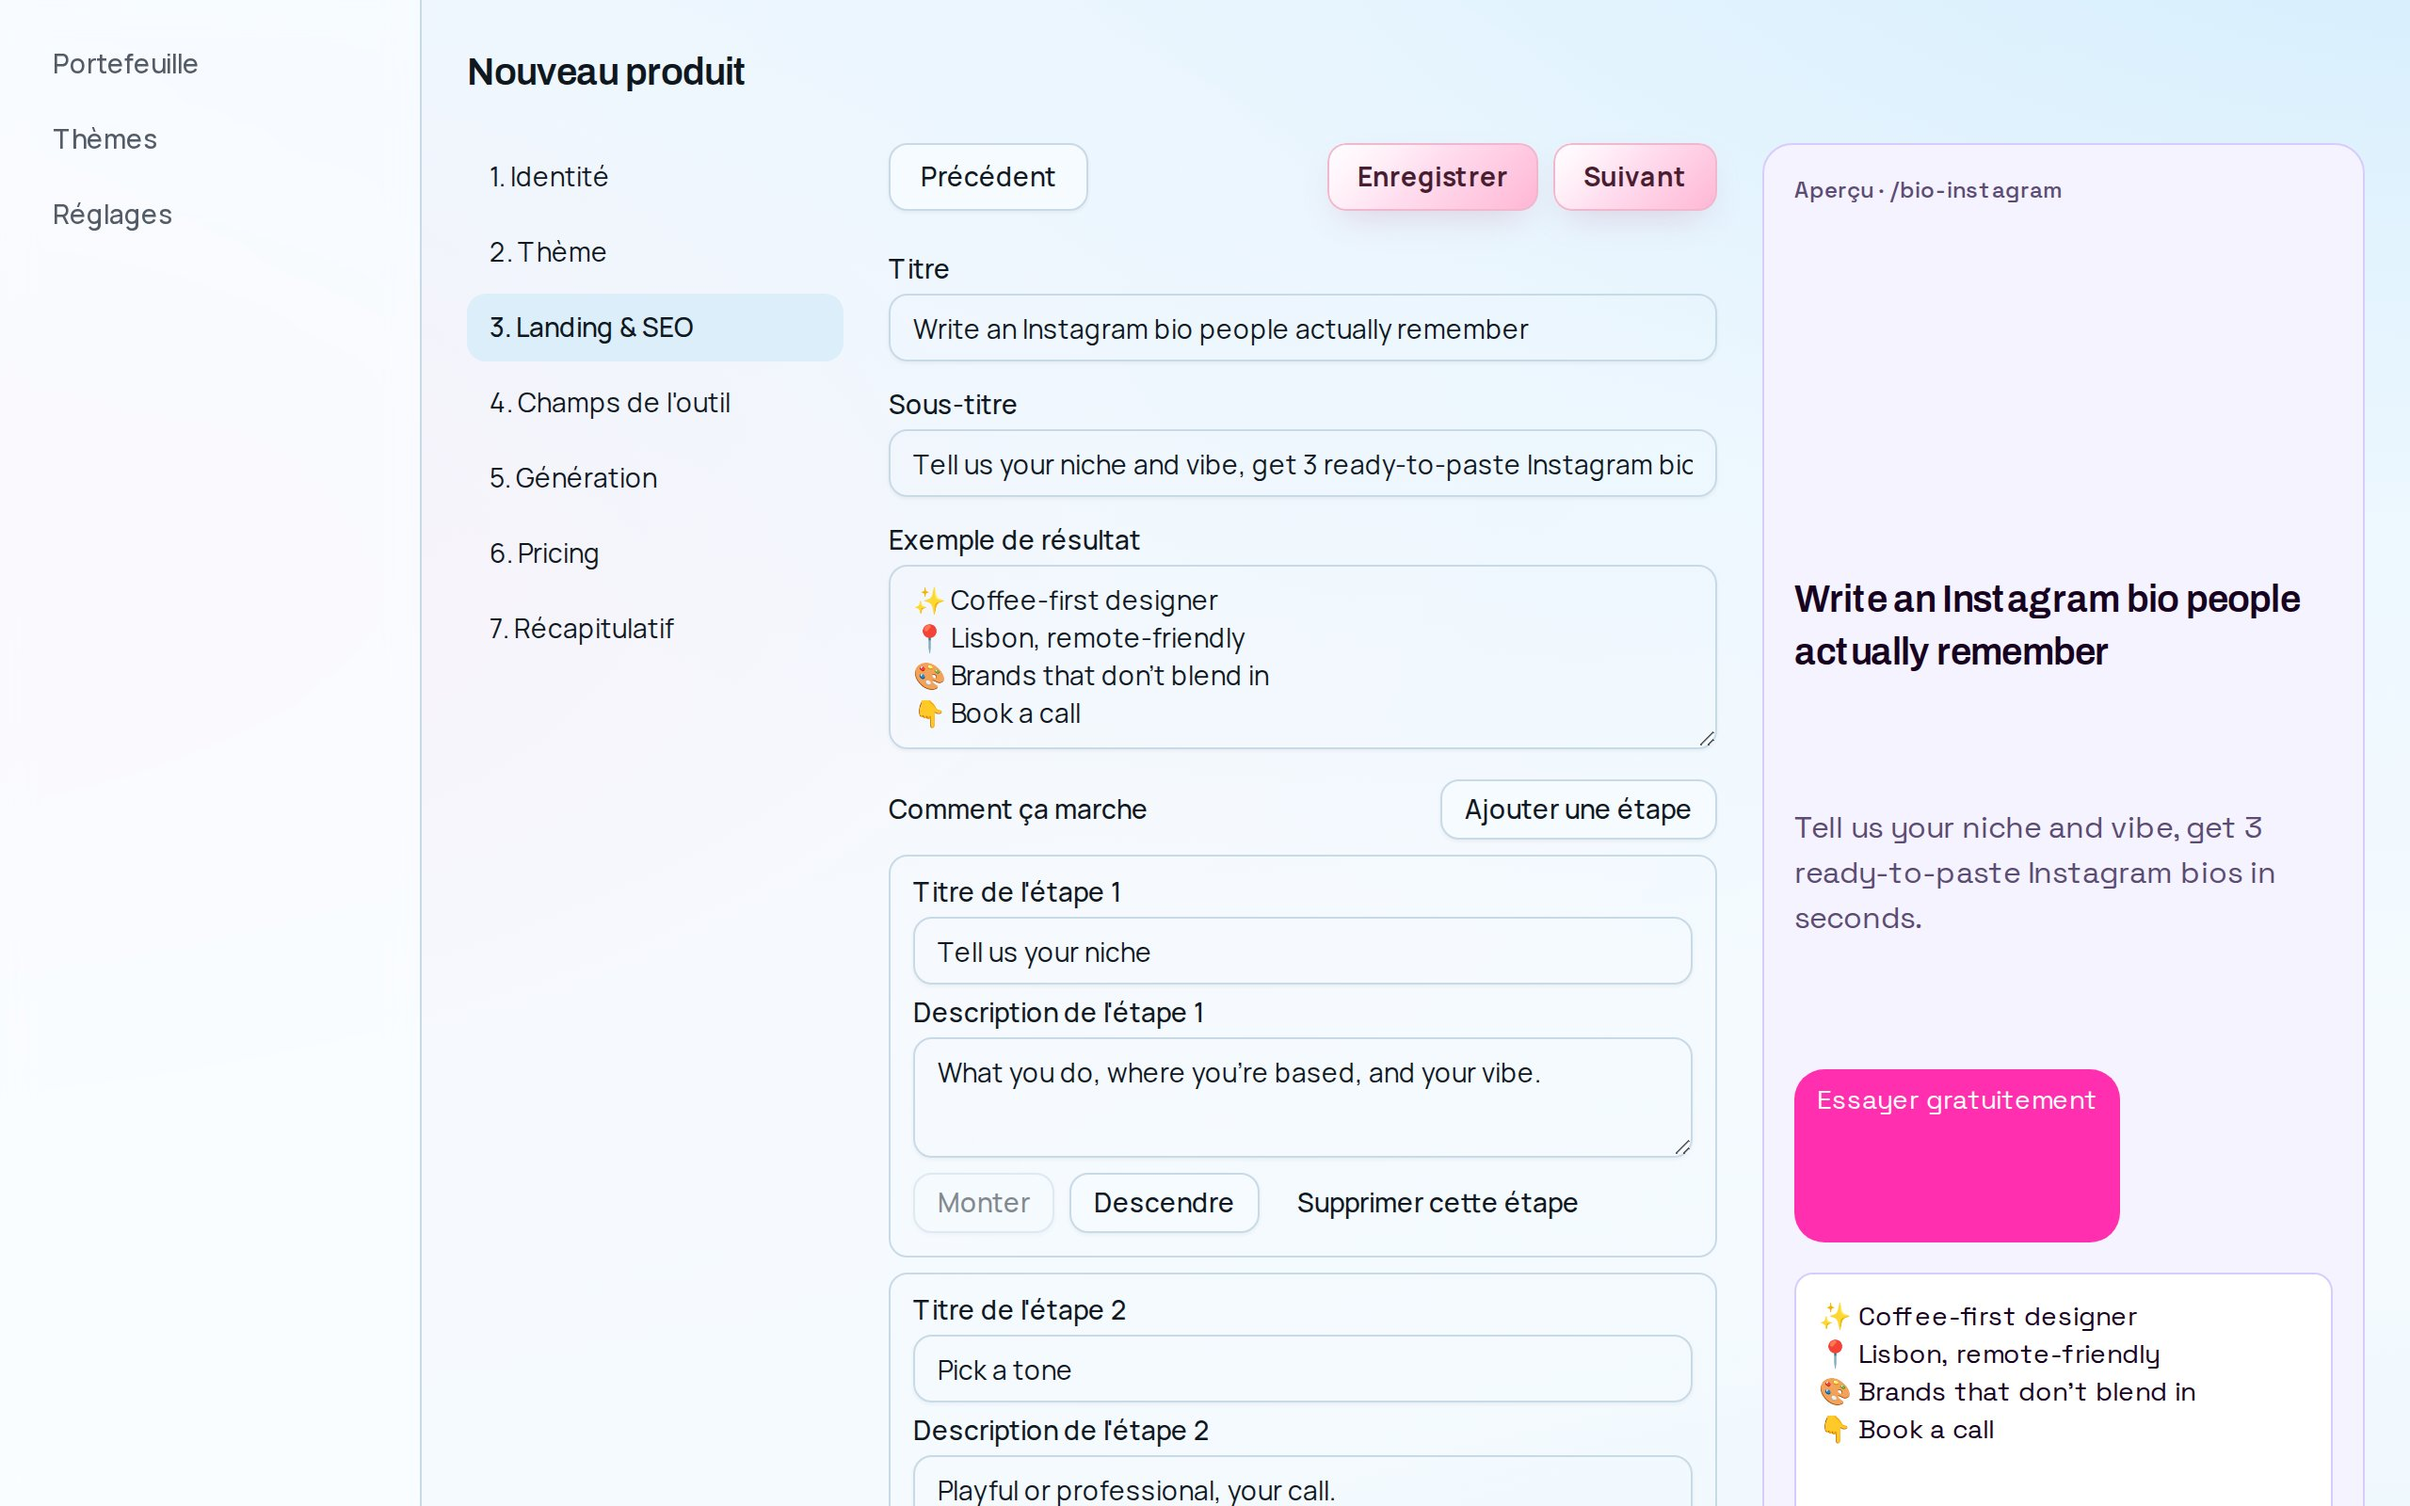
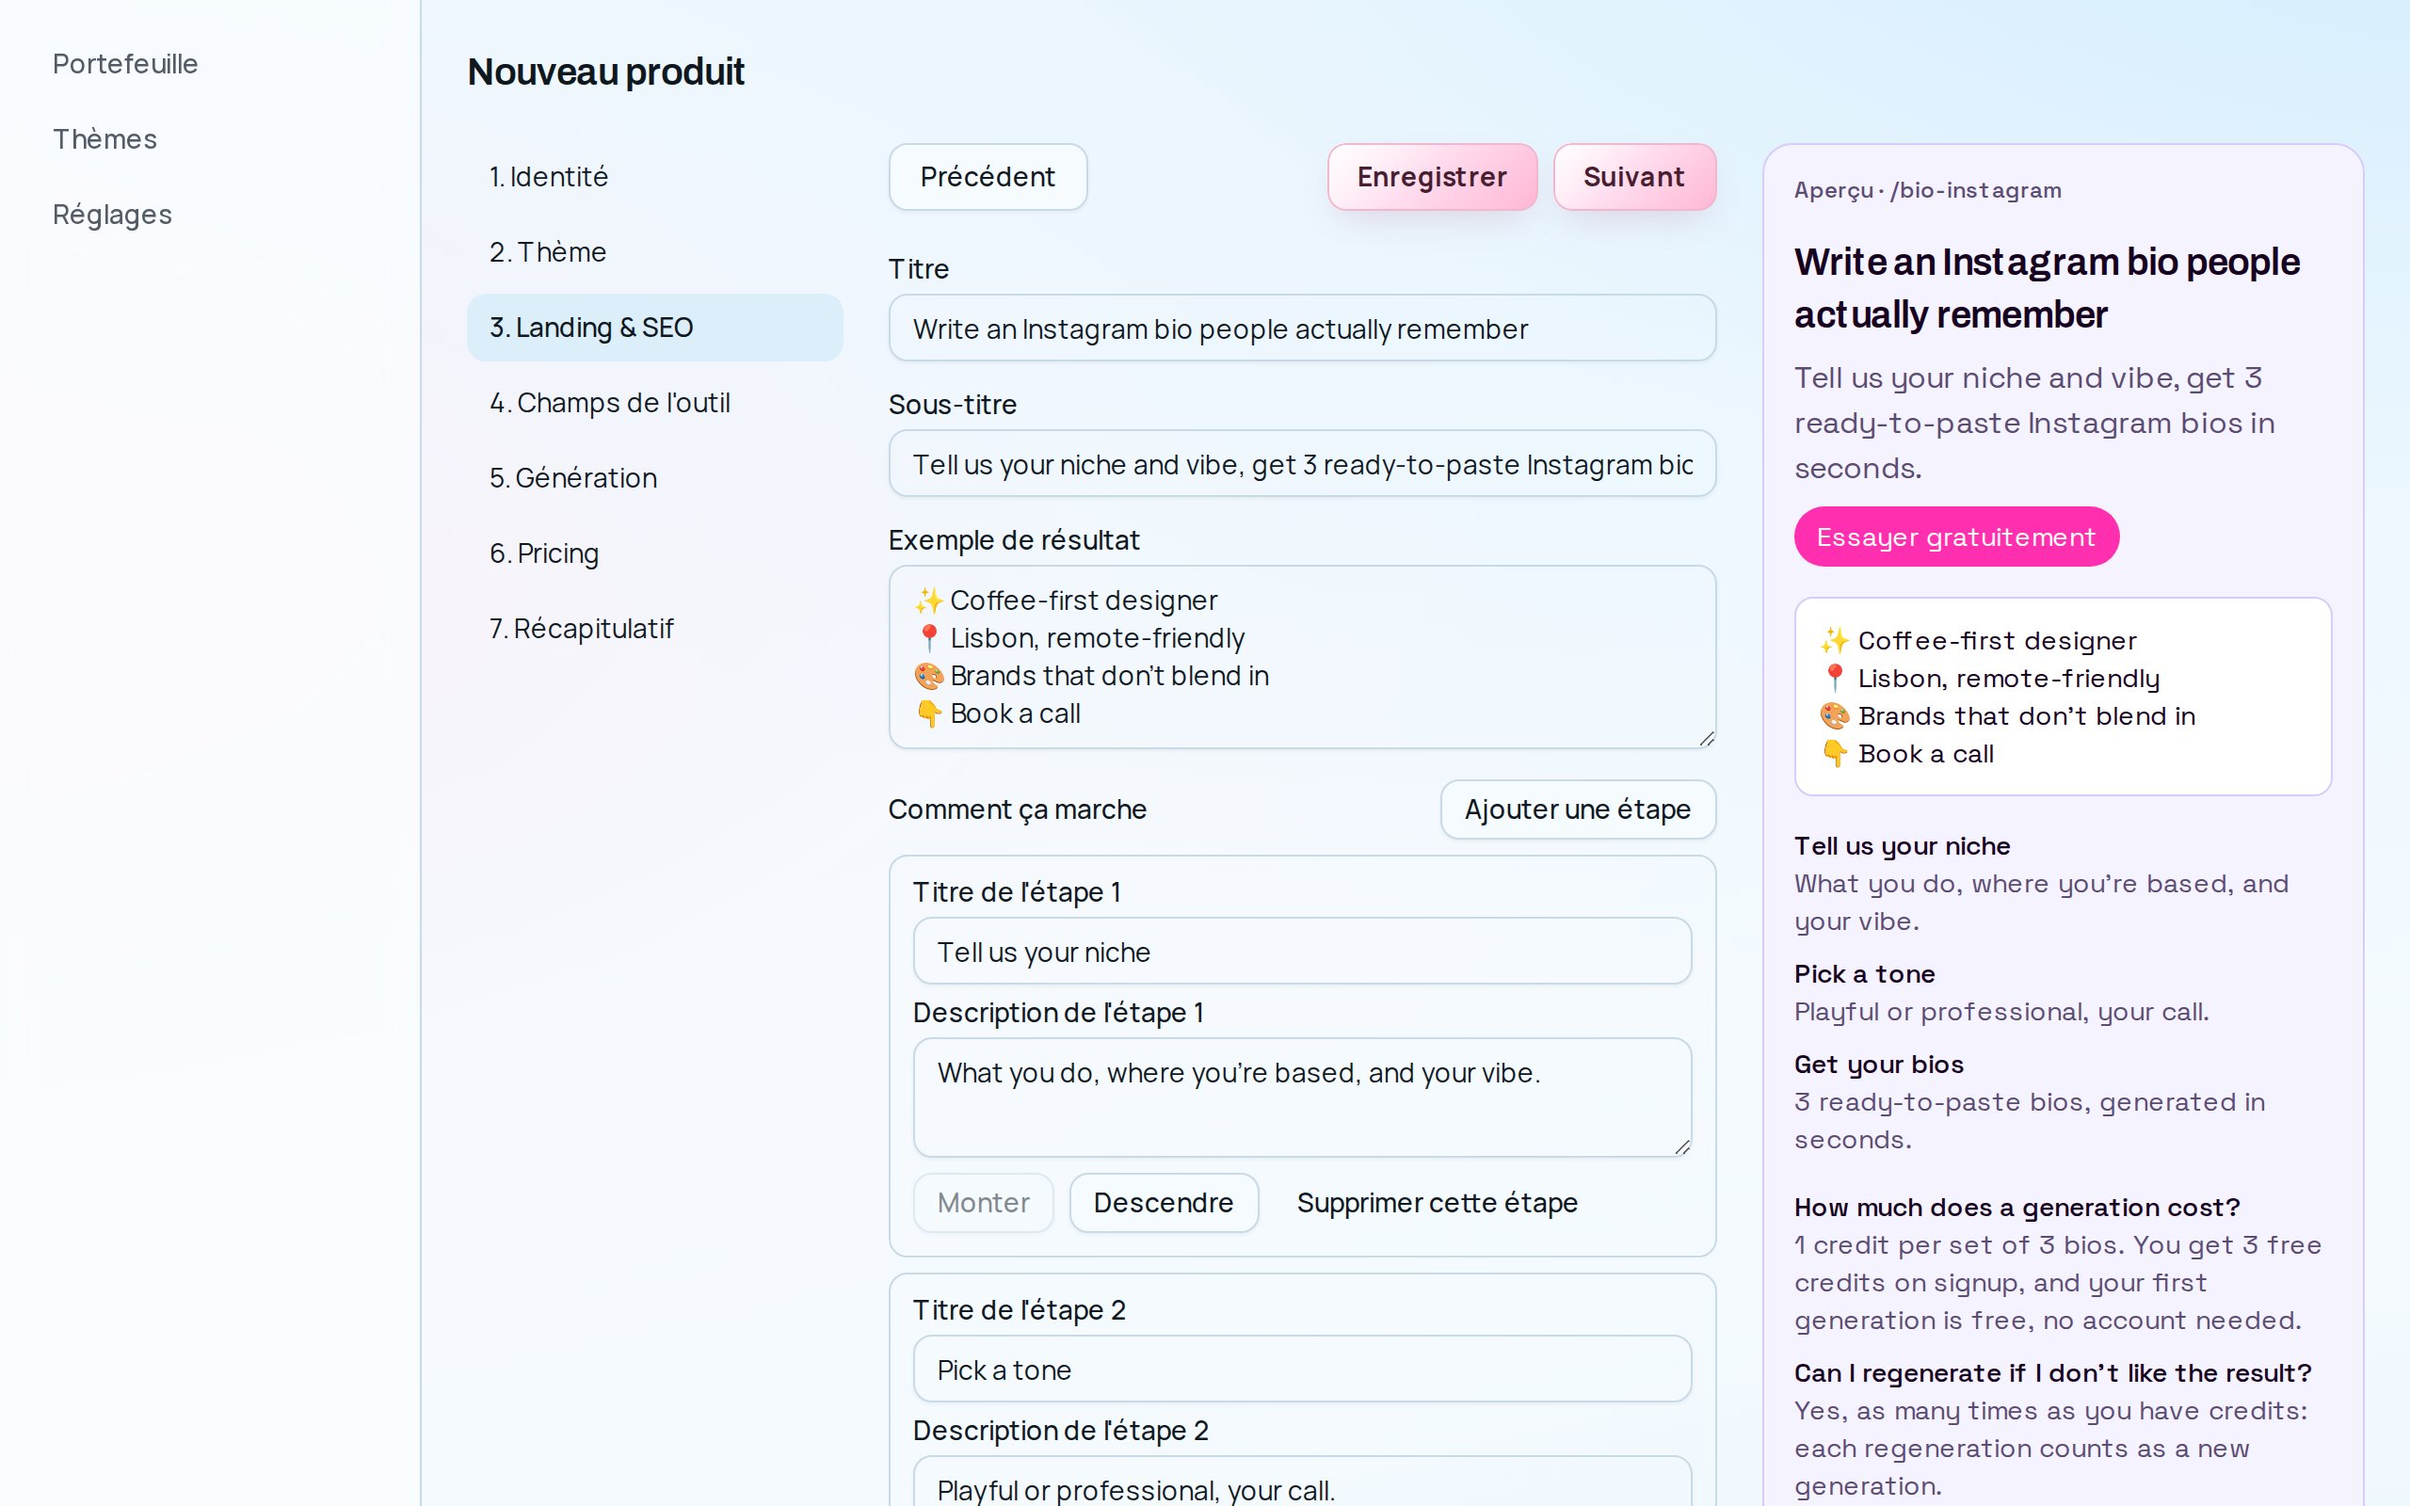
fix(bo): stop stretching the product form's landing preview
The landing preview is a CSS grid inside a column taller than its content,
so the grid spread the free height across its rows: the "Essayer
gratuitement" button grew to several times its height and the title,
subheadline and example drifted apart. `content-start` packs the rows at
the top. The landing's product-form screenshot is regenerated with the fix
(`pnpm screenshots:backoffice`, freshly seeded database).

Also drops the intro sentence under "Le backoffice en images".

Claude-Session: https://claude.ai/code/session_01EAYdDYcK6mvuLbEiMfvncf

Changed region(s): [[0.7188, 0.25, 0.9688, 1.0], [0.75, 0.1562, 0.9688, 0.2188]]

diff --git a/app/(marketing)/_components/backoffice-screens.tsx b/app/(marketing)/_components/backoffice-screens.tsx
@@ -62,19 +62,14 @@ function ScreenFigure({ screen, sizes }: { screen: Screen; sizes: string }) {
 export function BackofficeScreens() {
   return (
     <section aria-labelledby="backoffice-screens" className="mx-auto flex max-w-6xl flex-col gap-10 px-4 pt-24 sm:px-8">
-      <div className="flex flex-col justify-between gap-4 lg:flex-row lg:items-end">
-        <div className="flex flex-col gap-2">
-          <p className="text-[13px] font-semibold text-mk-link">Le backoffice</p>
-          <h2
-            id="backoffice-screens"
-            className="font-[family-name:var(--font-mk-display)] text-3xl font-extrabold tracking-[-0.03em] sm:text-4xl"
-          >
-            Le backoffice en images
-          </h2>
-        </div>
-        <p className="max-w-md leading-relaxed text-mk-muted">
-          Trois écrans clés, capturés sur les données de la démo : on lance un produit, on le mesure, on décide.
-        </p>
+      <div className="flex flex-col gap-2">
+        <p className="text-[13px] font-semibold text-mk-link">Le backoffice</p>
+        <h2
+          id="backoffice-screens"
+          className="font-[family-name:var(--font-mk-display)] text-3xl font-extrabold tracking-[-0.03em] sm:text-4xl"
+        >
+          Le backoffice en images
+        </h2>
       </div>
       <ScreenFigure screen={PORTFOLIO} sizes="(min-width: 1152px) 1088px, 100vw" />
       <div className="grid gap-10 lg:grid-cols-2 lg:gap-6">

diff --git a/app/(backoffice)/admin/products/_components/product-form/landing-preview.tsx b/app/(backoffice)/admin/products/_components/product-form/landing-preview.tsx
@@ -42,7 +42,7 @@ export function LandingPreview({
   return (
     <div
       aria-label="Aperçu de la landing"
-      className={cn(font.className, "grid gap-4 border p-4 text-left")}
+      className={cn(font.className, "grid content-start gap-4 border p-4 text-left")}
       style={rootStyle}
     >
       <p className="text-xs font-medium" style={{ color: light.mutedForeground }}>
